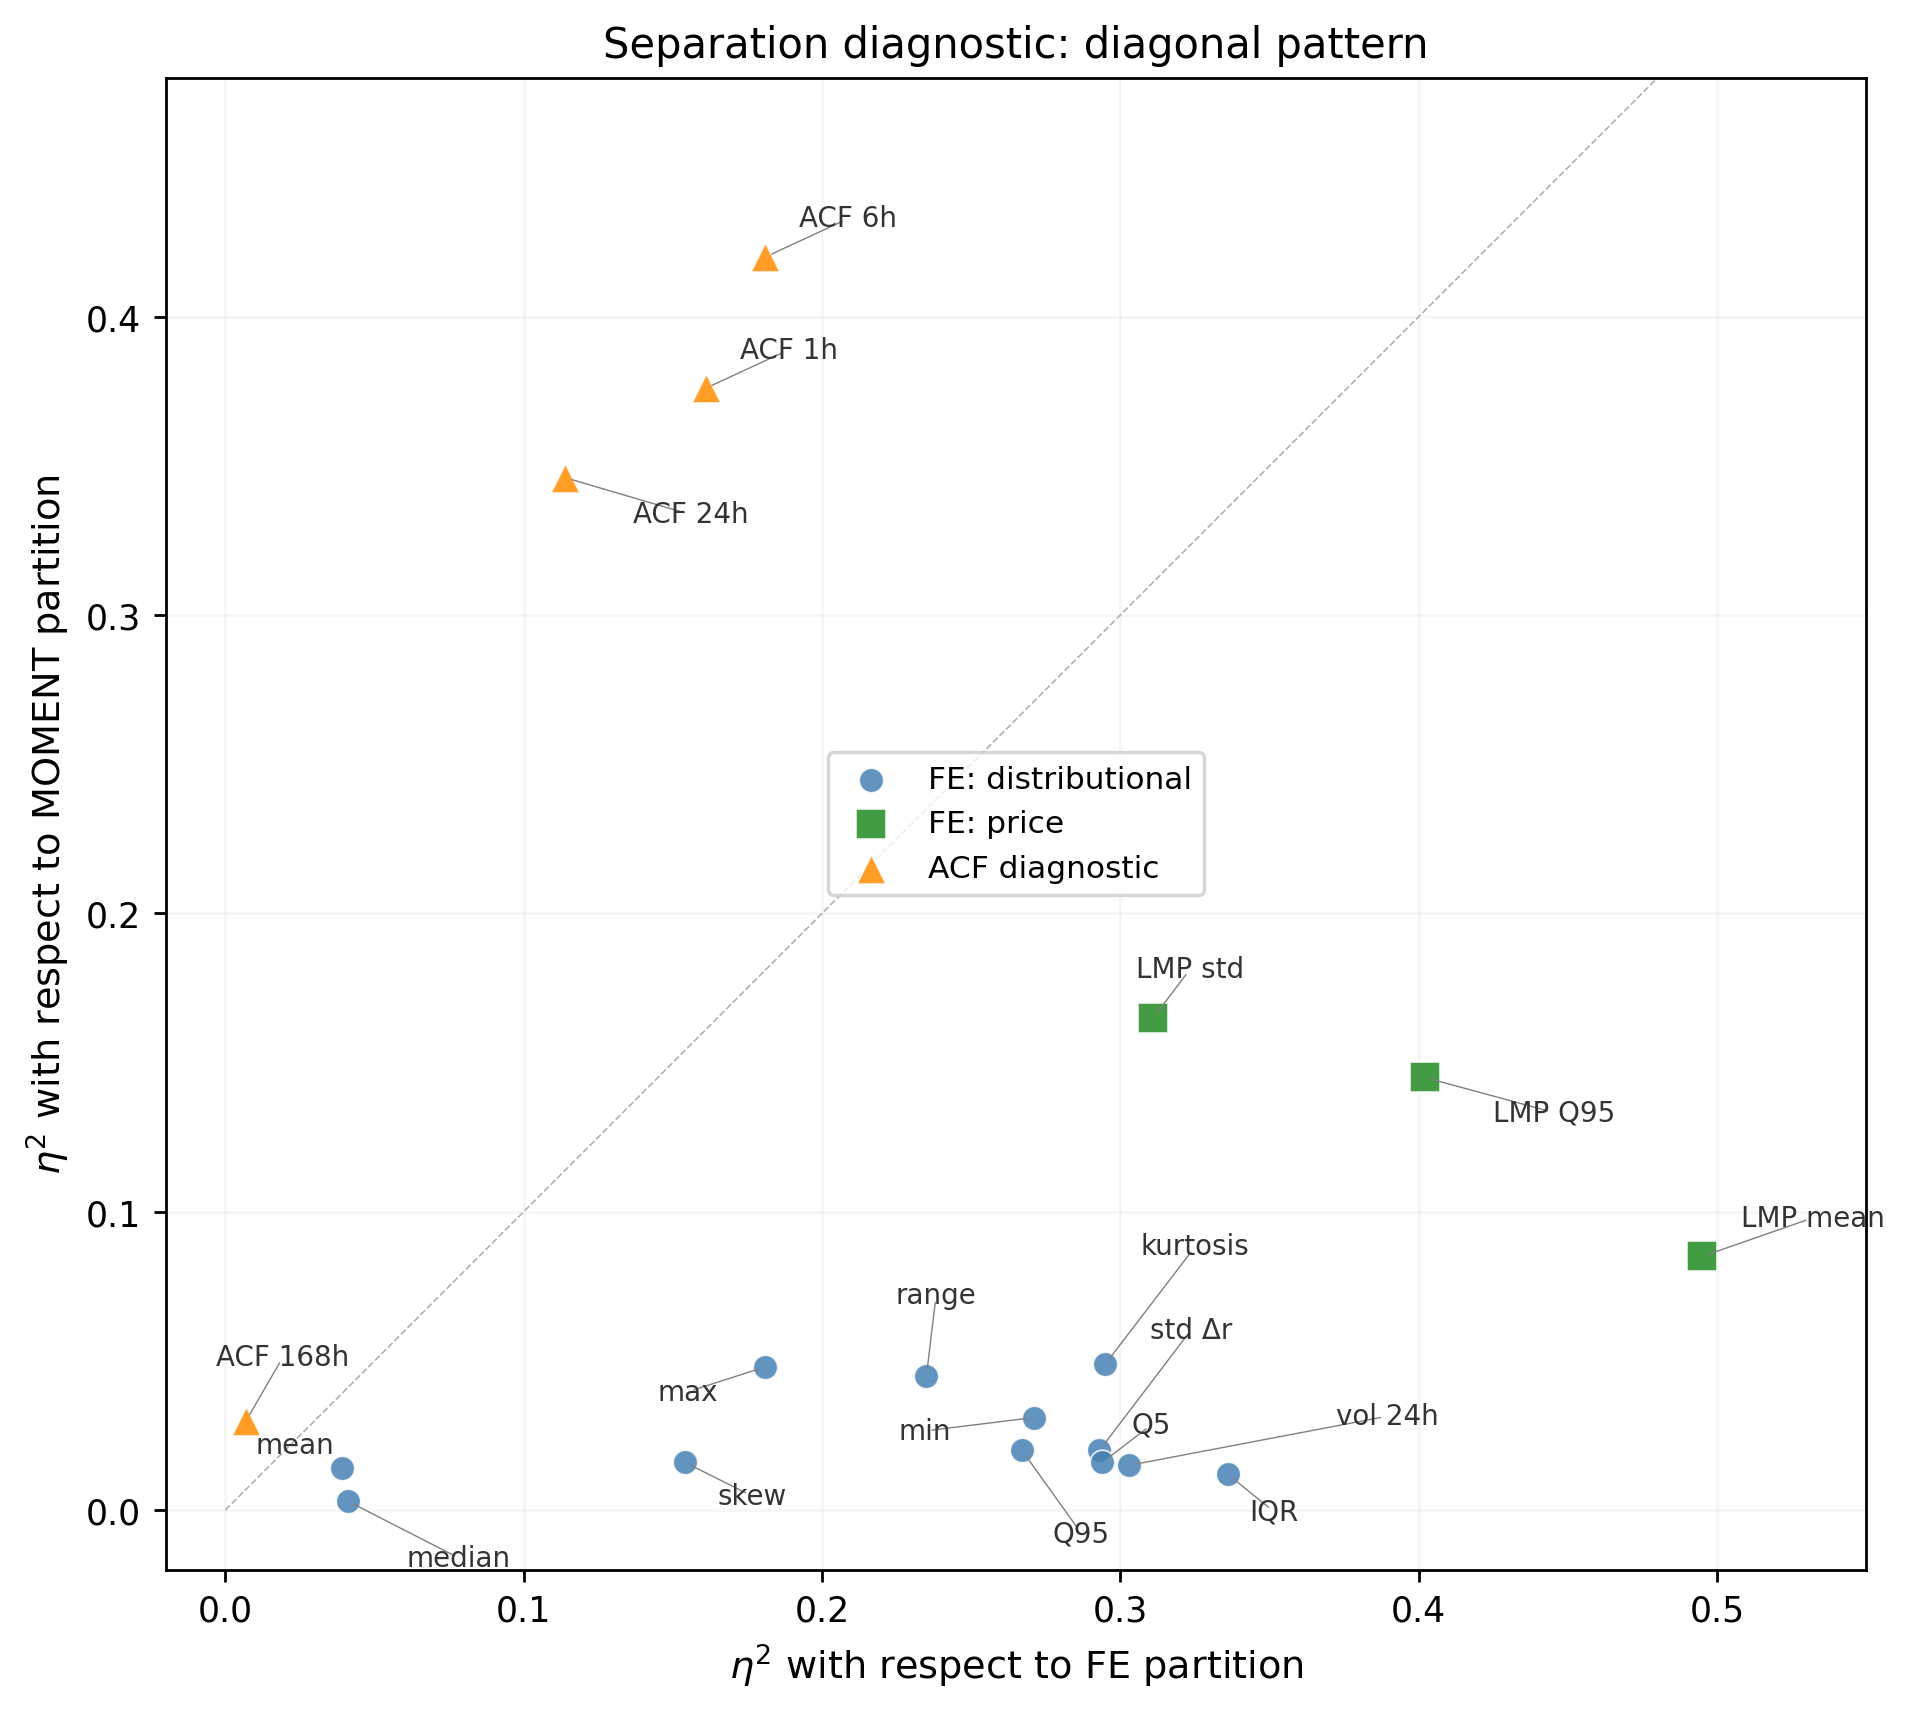
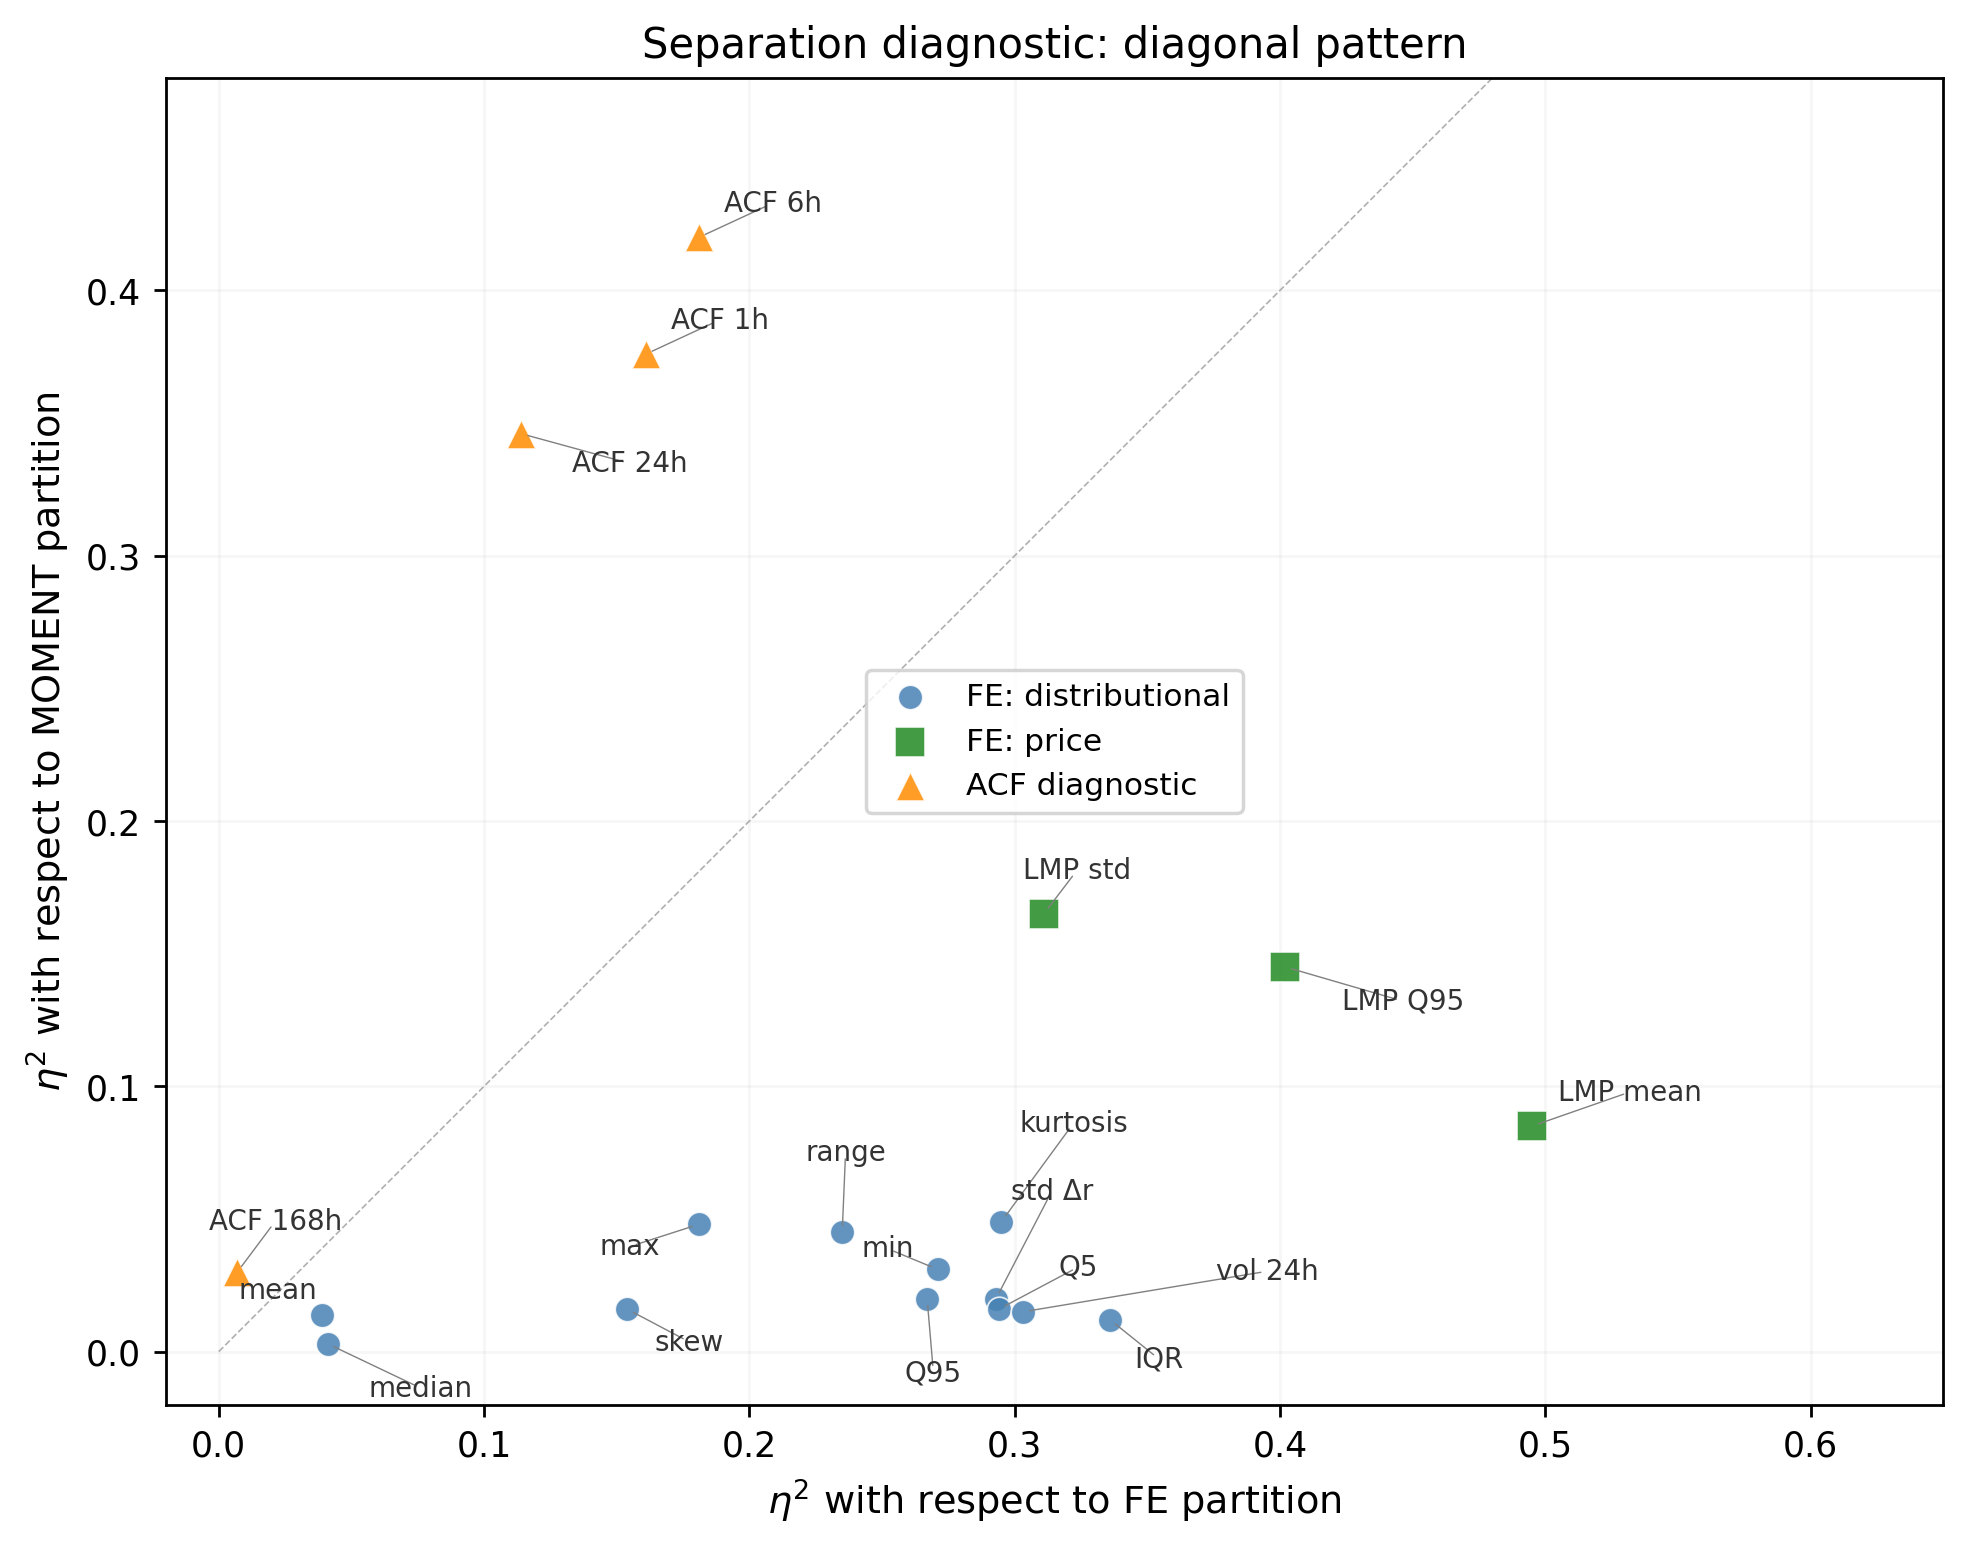
Update README: paper title and abstract at top; fix stale hour count
- Replace README title with the paper title ("Beyond the Price Level: ...")
- Move Abstract above the hero figure and sync to current paper wording
  (split final sentence; gloss "zero-shot")
- Fix stale 43,814 -> 43,812 hourly observations (two spots)
- Widen eta2_scatter x-axis so the "LMP mean" label stays inside the plot

diff --git a/scripts/fig_eta2_scatter.py b/scripts/fig_eta2_scatter.py
@@ -105,7 +105,7 @@ def make_eta2_figure(lang="it"):
         ax.set_title("Diagnostica di separazione: pattern diagonale", fontsize=12)
 
     ax.legend(frameon=True, fontsize=9, loc="center")
-    ax.set_xlim(-0.02, 0.55)
+    ax.set_xlim(-0.02, 0.65)
     ax.set_ylim(-0.02, 0.48)
     ax.set_aspect("equal")
     ax.grid(alpha=0.1)

diff --git a/README.md b/README.md
@@ -1,8 +1,18 @@
-# Near-Orthogonal Regimes in ISO New England: Price Level and Temporal Persistence as Non-Redundant Dimensions
+# Beyond the Price Level: Temporal Persistence as an Independent Axis of Electricity Market Regimes
 
 **Price level and temporal persistence as independent dimensions of market state**
 
 C. Mari, C. Baldassari — Universita degli Studi della Tuscia, Viterbo, Italy
+
+---
+
+## Abstract
+
+Electricity market regimes are conventionally described along a single dimension, the price level. We show that this view overlooks an entire axis of market structure. Two near-orthogonal axes of regime organization emerge from five years of ISO New England hourly prices: an economic axis that separates regimes by price level, and a dynamic axis that separates them by temporal persistence, i.e. how quickly the market reverts after a shock. The two axes are near-orthogonal: knowing the price regime provides almost no information about the dynamic regime, and vice versa. Within the same economic regime, the speed of mean-reversion varies by up to a factor of 5--6x in the dominant regimes, a heterogeneity invisible to any single-state model. A mean-reverting model conditioned on both axes, in which each price--persistence combination receives its own parameters, yields a statistically compelling information gain over the conventional single-axis specification. This opens the way to hedging and forecasting strategies that distinguish not only how much electricity costs, but also how long the shock will persist.
+
+The discovery is made through a fully unsupervised pipeline that specifies neither the number of regimes nor predefined labels. The economic axis is derived from domain-specific descriptive statistics on the price increments. The dynamic axis is produced by a time-series foundation model applied zero-shot --- that is, used exactly as pre-trained, with no training or fine-tuning on electricity data --- to the price residuals with exploratory intent; the persistence interpretation is not assumed but emerges from a post-clustering diagnostic. This use of foundation model representations for unsupervised regime discovery has no precedent in the energy markets literature. In short, the price level tells where the market is; persistence tells how long it stays there --- and the two are largely independent.
+
+**Keywords:** spot electricity markets, unsupervised regime detection, topological data analysis, time-series foundation model, diffusion maps
 
 ---
 
@@ -13,16 +23,6 @@ C. Mari, C. Baldassari — Universita degli Studi della Tuscia, Viterbo, Italy
 <p align="center">
   <em>Each dot is a 512-hour window of ISO New England prices. The horizontal axis measures price level (LMP), the vertical axis measures temporal persistence (ACF at lag 6 h). All four quadrants are populated: knowing the price regime says almost nothing about the persistence regime, and vice versa.</em>
 </p>
-
----
-
-## Abstract
-
-Electricity market regimes are conventionally described along a single dimension, the price level. We show that this view overlooks an entire axis of market structure. Two near-orthogonal axes of regime organization emerge from five years of ISO New England hourly prices: an economic axis that separates regimes by price level, and a dynamic axis that separates them by temporal persistence, i.e. how quickly the market reverts after a shock. The two axes are near-orthogonal: knowing the price regime provides almost no information about the dynamic regime, and vice versa. Within the same economic regime, the speed of mean-reversion varies by up to a factor of 5--6x in the dominant regimes, a heterogeneity invisible to any single-state model. A mean-reverting model conditioned on both axes, in which each price--persistence combination receives its own parameters, yields a statistically compelling information gain over the conventional single-axis specification and opens the way to hedging and forecasting strategies that distinguish not only how much electricity costs, but also how long the shock will persist.
-
-The discovery is made through a fully unsupervised pipeline that specifies neither the number of regimes nor predefined labels. The economic axis is derived from domain-specific descriptive statistics on the price increments. The dynamic axis is produced by a time-series foundation model applied zero-shot to the price residuals with exploratory intent; the persistence interpretation is not assumed but emerges from a post-clustering diagnostic. This use of foundation model representations for unsupervised regime discovery has no precedent in the energy markets literature. In short, the price level tells where the market is; persistence tells how long it stays there --- and the two are largely independent.
-
-**Keywords:** spot electricity markets, unsupervised regime detection, topological data analysis, time-series foundation model, diffusion maps
 
 ---
 
@@ -67,7 +67,7 @@ Within the same price regime, mean-reversion speed varies by a **factor of 5x** 
 ## Pipeline
 
 ```
-LMP hourly (43,814 hours, 2021-2025)
+LMP hourly (43,812 hours, 2021-2025)
   |
   arcsinh(p_t) --> MSTL (24h, 168h, 8760h) --> residual r_t
   |                                              |
@@ -135,7 +135,7 @@ The pipeline reads from `results/preprocessed.parquet` (output of the preprocess
 
 ### Data
 
-The dataset (`isone_dataset.parquet`) contains 43,814 hourly day-ahead LMP observations for the Massachusetts Hub of ISO New England (2021--2025), sourced from the [EIA Open Data API](https://api.eia.gov/v2/electricity/rto/wholesale-data) (`respondent=ISNE`, `type=D`).
+The dataset (`isone_dataset.parquet`) contains 43,812 hourly day-ahead LMP observations for the Massachusetts Hub of ISO New England (2021--2025), sourced from the [EIA Open Data API](https://api.eia.gov/v2/electricity/rto/wholesale-data) (`respondent=ISNE`, `type=D`).
 
 ## Repository structure
 
